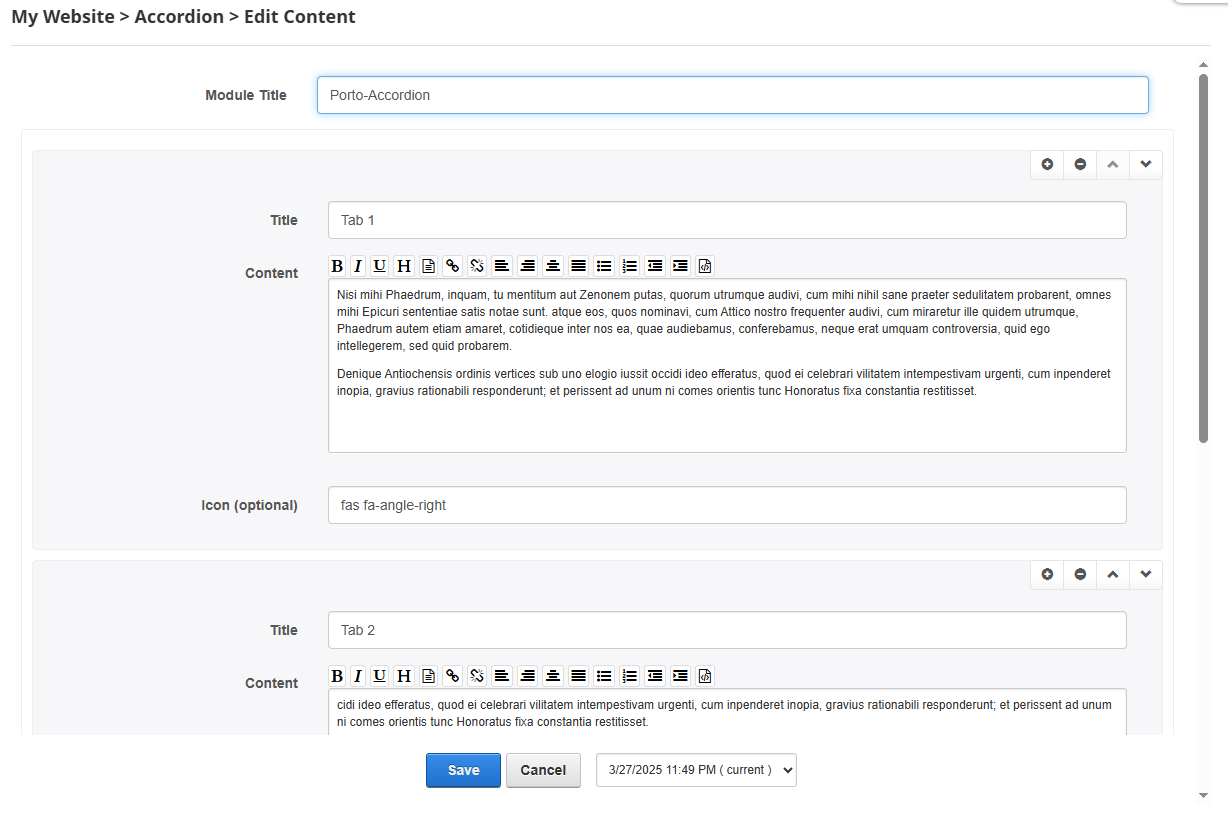
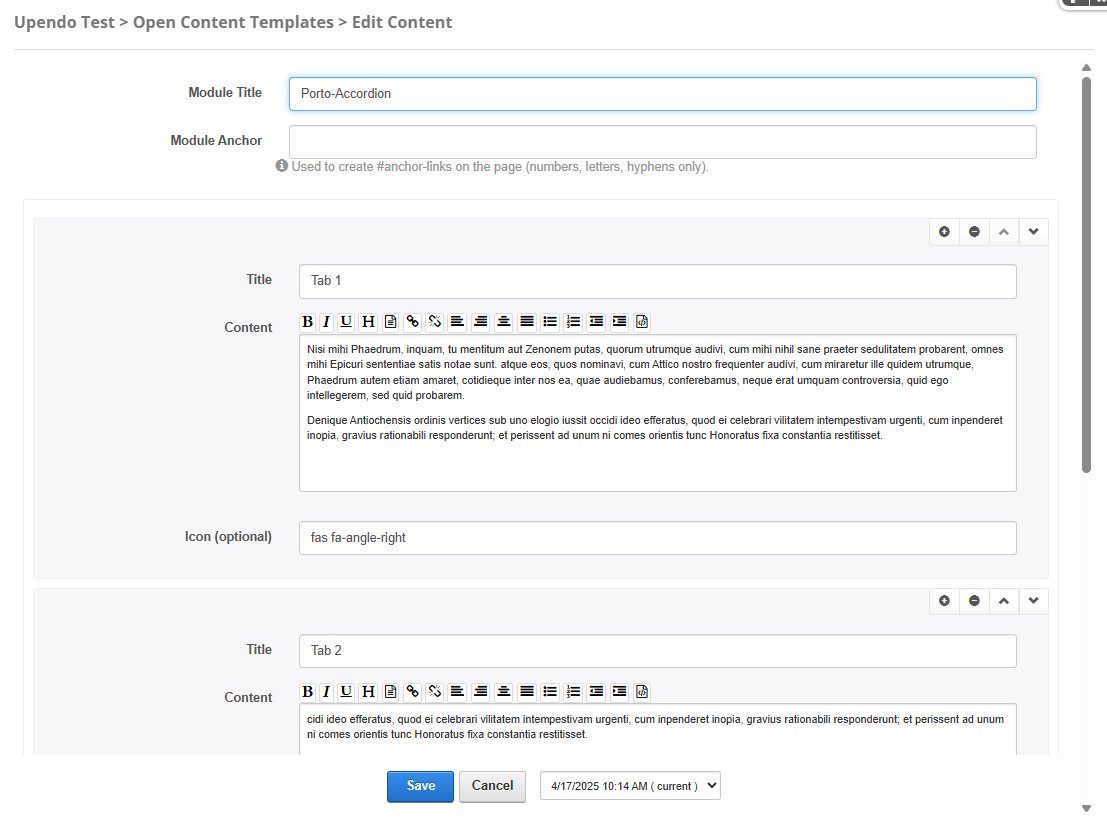
Update Porto-Accordion  Doc

diff --git a/Porto-Accordion/Porto-Accordion.html b/Porto-Accordion/Porto-Accordion.html
@@ -63,8 +63,6 @@
         /* Component Image */
         .component-image {
             width: 100%;
-
-            margin: 10px 0;
             border-radius: 10px;
             box-shadow: 0 4px 8px rgba(0, 0, 0, 0.1);
         }
@@ -249,8 +247,16 @@
             <tbody>
                 <tr>
                     <td>Module Title</td>
-                    <td>Text</td>
-                    <td>Allows you to set the title of the accordion.</td>
+                    <td>String</td>
+                    <td>Used to define the title of the module. This title is displayed in the DNN administration interface to
+                        help identify the module.</td>
+                </tr>
+                <tr>
+                    <td>Module Anchor</td>
+                    <td>String</td>
+                    <td>Used to create anchor links on the page. This allows users to link directly to the module using a unique
+                        identifier.
+                        Only letters, numbers, and hyphens are allowed.</td>
                 </tr>
                 <tr>
                     <td>Items</td>
@@ -298,8 +304,13 @@
                 <tr>
                     <td>Choose the Accordion Color</td>
                     <td>Dropdown list (Select)</td>
-                    <td>Allows you to set the accordion color by selecting one of the following values: Default,
-                        Primary, Quaternary, Secondary, or Tertiary.</td>
+                    <td>Allows you to set the accordion color by selecting one of the following values:
+                        <span style="background-color: #f7f7f7; color: black; padding: 2px 6px; border-radius: 4px;">Default</span>,
+                        <span style="background-color: #0088cc; color: white; padding: 2px 6px; border-radius: 4px;">Primary</span>,
+                        <span style="background-color: #383f48; color: white; padding: 2px 6px; border-radius: 4px;">Quaternary</span>,
+                        <span style="background-color: #E36159; color: white; padding: 2px 6px; border-radius: 4px;">Secondary</span>,
+                        <span style="background-color: #2BAAB1; color: white; padding: 2px 6px; border-radius: 4px;">Tertiary</span>.
+                    </td>
                 </tr>
                 <tr>
                     <td>Choose the Accordion Size</td>
